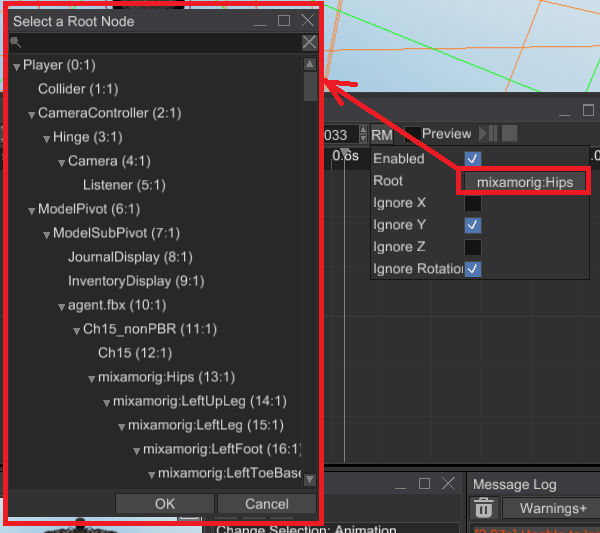
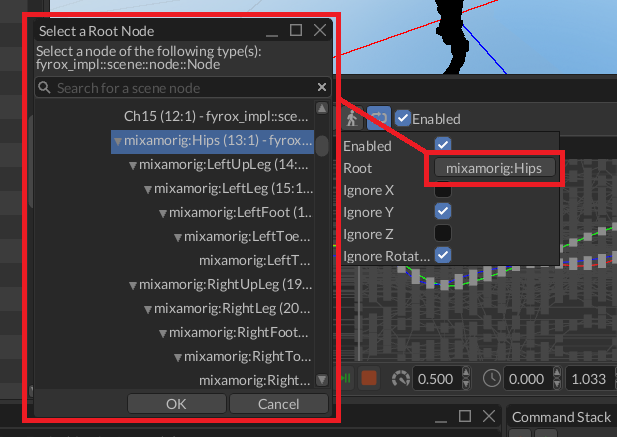
update root motion

diff --git a/src/animation/root_motion/root_motion.md b/src/animation/root_motion/root_motion.md
@@ -22,7 +22,7 @@ work exactly the same.
 
 ## How to enable
 
-You can enable/disable/setup it in the drop-down menu that opens by clicking `RM` button in the animation editor.
+You can enable/disable/setup it in the drop-down menu that opens by clicking the button with walking person icon in the animation editor.
 Keep in mind, that root motion should be configured on _per animation_ basis. Most of the animations does not
 need the root motion at all.
 
